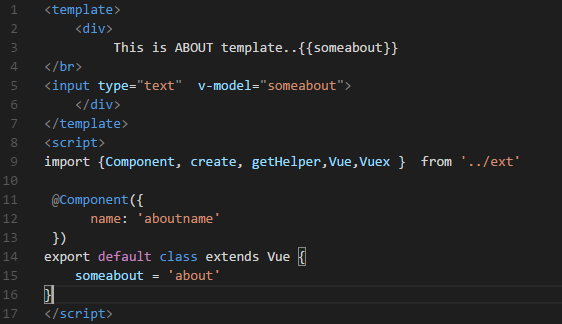
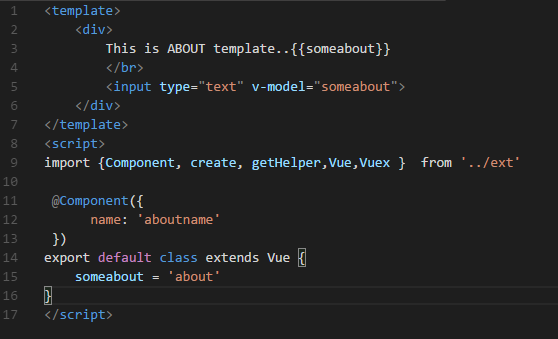
refact

diff --git a/app.vue b/app.vue
@@ -22,20 +22,14 @@
 </template>
 <script>
 var navbar = require('./src/components/navbar.vue').default
-//var about = require('./src/Components/Views/about.vue').default
 var separatets = require('./src/Views/separatets.vue').default
 import  store  from './src/System/store'
 import {Component, create, getHelper,Vue,Vuex }  from './src/ext'
 
 var { getters, commit } = getHelper(store)
-//  declare module 'av-ts/dist/src/interface.d' {
-//   export  interface ComponentMeta extends Vue.ComponentOptions<Vue> {
-//           //  TESTER:{}
-//          }
-//  }src="./appc.ts" 
 
 @Component({  components:{ navbar}  }) //,separatets, about
-//@Component
+
 export default class App extends Vue {
   name = 'Rem'
   //example of manipulating central store values

diff --git a/src/Views/about.vue b/src/Views/about.vue
@@ -1,8 +1,8 @@
 <template>
     <div>
-         This is ABOUT template..{{someabout}}  
-</br>
-<input type="text"  v-model="someabout">
+        This is ABOUT template..{{someabout}}
+        </br>
+        <input type="text" v-model="someabout">
     </div>
 </template>
 <script>
